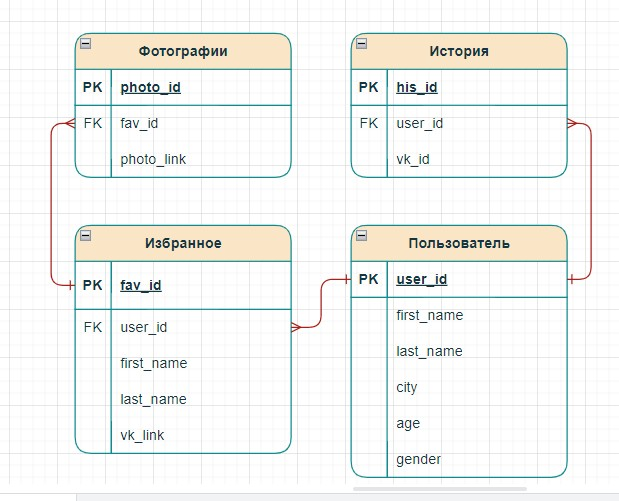
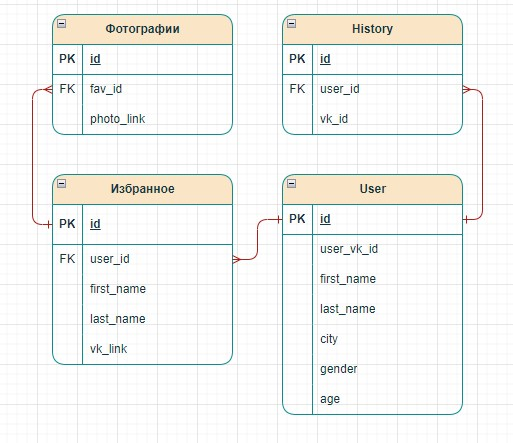
02072023

Changed region(s): [[0.0624, 0.0293, 0.9669, 0.9977]]

diff --git a/vkinder_db/work_with_db.py b/vkinder_db/work_with_db.py
@@ -16,9 +16,47 @@ def connect_db():
 
 class Database():
 
+    # Проверка на уникальность юзера
+    def uniq_user(self, user_vk_id):
+        query = session.query(User.user_vk_id).filter(
+            User.user_vk_id == user_vk_id)
+        return len([i[0] for i in query]) == 0
+
+    # Добавление нового юзера и возврат его идентификатора
+    def add_user(self, user_vk_id, first_name, last_name, city, age, gender):
+        if self.uniq_user(user_vk_id):
+            new_user = User(user_vk_id=user_vk_id, first_name=first_name,
+                            last_name=last_name, city=city, age=age,
+                            gender=gender)
+            session.add(new_user)
+            session.commit()
+
+            return new_user.id
+
+
+    # Получение истории просмотров:
     def history(self):
         query = session.query(History.vk_id).select_from(History)
         return [i[0] for i in query]
+
+    # добавление в историю просмотров,
+    def add_history(self, user_id, vk_id):
+        session.add(History(user_id=user_id, vk_id=vk_id))
+        session.commit()
+
+    # добавление в избранное и возврат идентификатора
+    def add_favourites(self, first_name, last_name, vk_link, user_id):
+        new_favourites = Favourites(first_name=first_name, last_name=last_name,
+                                    vk_link=vk_link, user_id=user_id)
+        session.add(new_favourites)
+        session.commit()
+        return new_favourites.id
+
+    # Добавление ссылок на фото в отдельную таблицу
+    def add_photo(self, fav_id, photo_list: list):
+        for item in photo_list:
+            session.add(Photo(fav_id=fav_id, photo_link=item))
+            session.commit()
 
 if __name__ == '__main__':
 
@@ -27,5 +65,3 @@ if __name__ == '__main__':
     create_tables(engine)
 
     test = Database()
-
-    print(test.history())

diff --git a/vkinder_db/model_db.py b/vkinder_db/model_db.py
@@ -6,14 +6,16 @@ Base = declarative_base()
 class History(Base):
     __tablename__ = 'history'
 
-    vk_id = sq.Column(sq.Text, primary_key=True)
-    user_id = sq.Column(sq.Integer, sq.ForeignKey('user.user_id'))
+    id = sq.Column(sq.Integer, primary_key=True)
+    vk_id = sq.Column(sq.Text, nullable=False)
+    user_id = sq.Column(sq.Integer, sq.ForeignKey('user.id'))
 
 class User(Base):
     __tablename__ = 'user'
 
-    user_id = sq.Column(sq.Integer, primary_key=True)
-    firs_name = sq.Column(sq.Text, nullable=False)
+    id = sq.Column(sq.Integer, primary_key=True)
+    user_vk_id = sq.Column(sq.Text, nullable=False)
+    first_name = sq.Column(sq.Text, nullable=False)
     last_name = sq.Column(sq.Text, nullable=False)
     city = sq.Column(sq.Text, nullable=False)
     gender = sq.Column(sq.Text, nullable=False)
@@ -23,19 +25,19 @@ class User(Base):
 class Favourites(Base):
     __tablename__ = 'favourites'
 
-    fav_id = sq.Column(sq.Integer, primary_key=True)
+    id = sq.Column(sq.Integer, primary_key=True)
     first_name = sq.Column(sq.Text, nullable=False)
     last_name = sq.Column(sq.Text, nullable=False)
     vk_link = sq.Column(sq.Text, nullable=False)
-    user_id = sq.Column(sq.Integer, sq.ForeignKey('user.user_id'))
+    user_id = sq.Column(sq.Integer, sq.ForeignKey('user.id'))
     favourites_conn = relationship(User, backref='user')
 
 class Photo(Base):
     __tablename__ = 'photo'
 
-    photo_id = sq.Column(sq.Integer, primary_key=True)
+    id = sq.Column(sq.Integer, primary_key=True)
     photo_link = sq.Column(sq.Text, nullable=False)
-    fav_id = sq.Column(sq.Integer, sq.ForeignKey('favourites.fav_id'))
+    fav_id = sq.Column(sq.Integer, sq.ForeignKey('favourites.id'))
     photo_conn = relationship(Favourites, backref='favourites')
 
 
